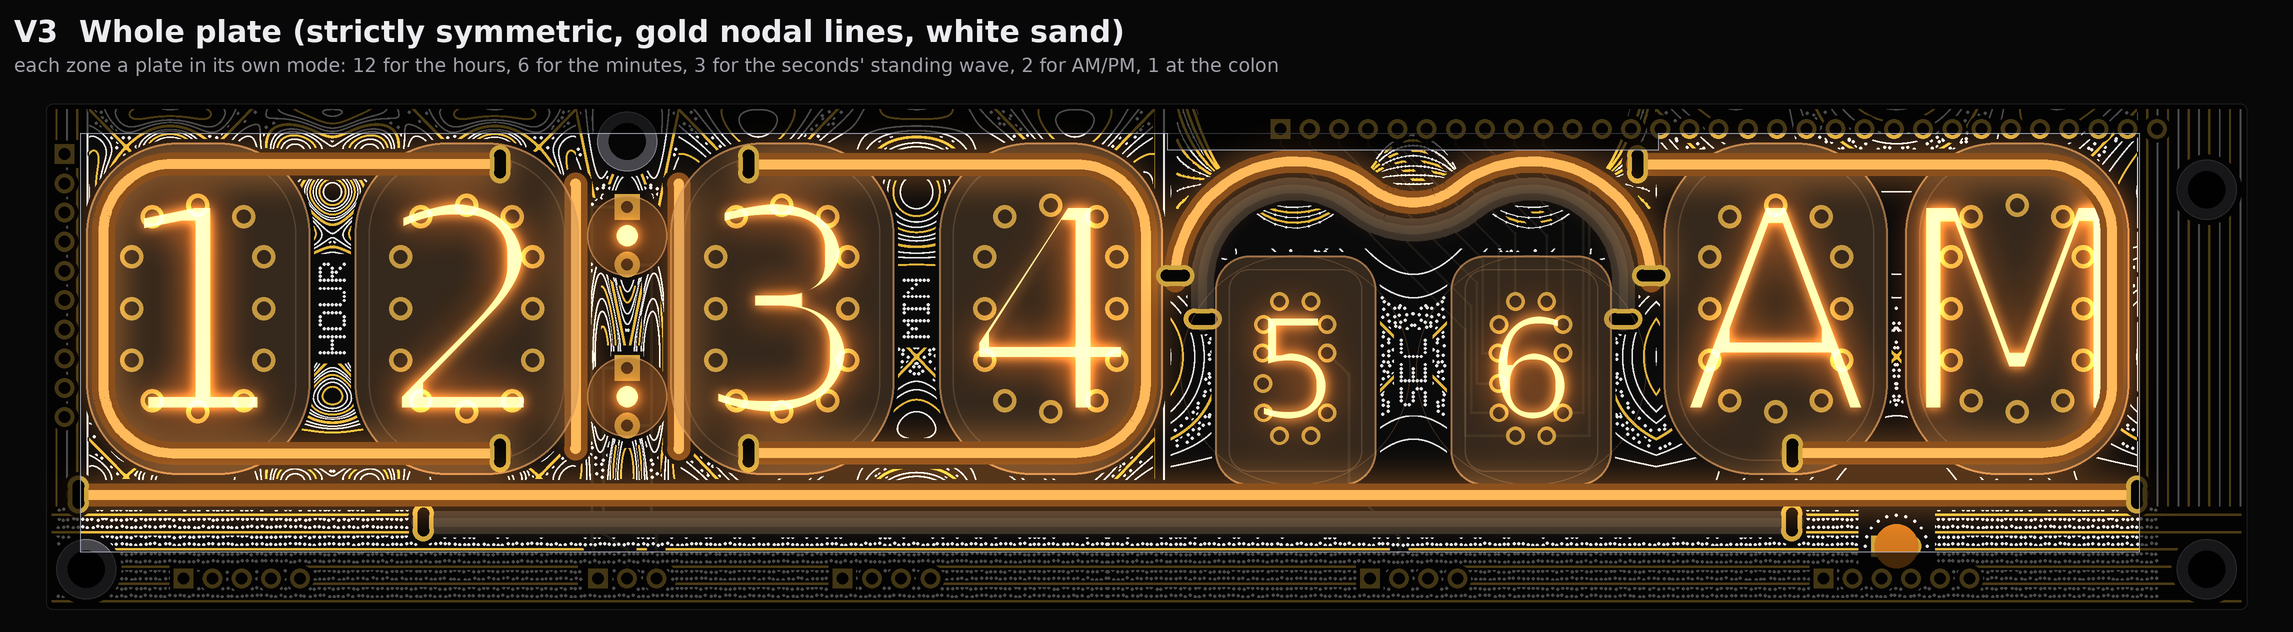
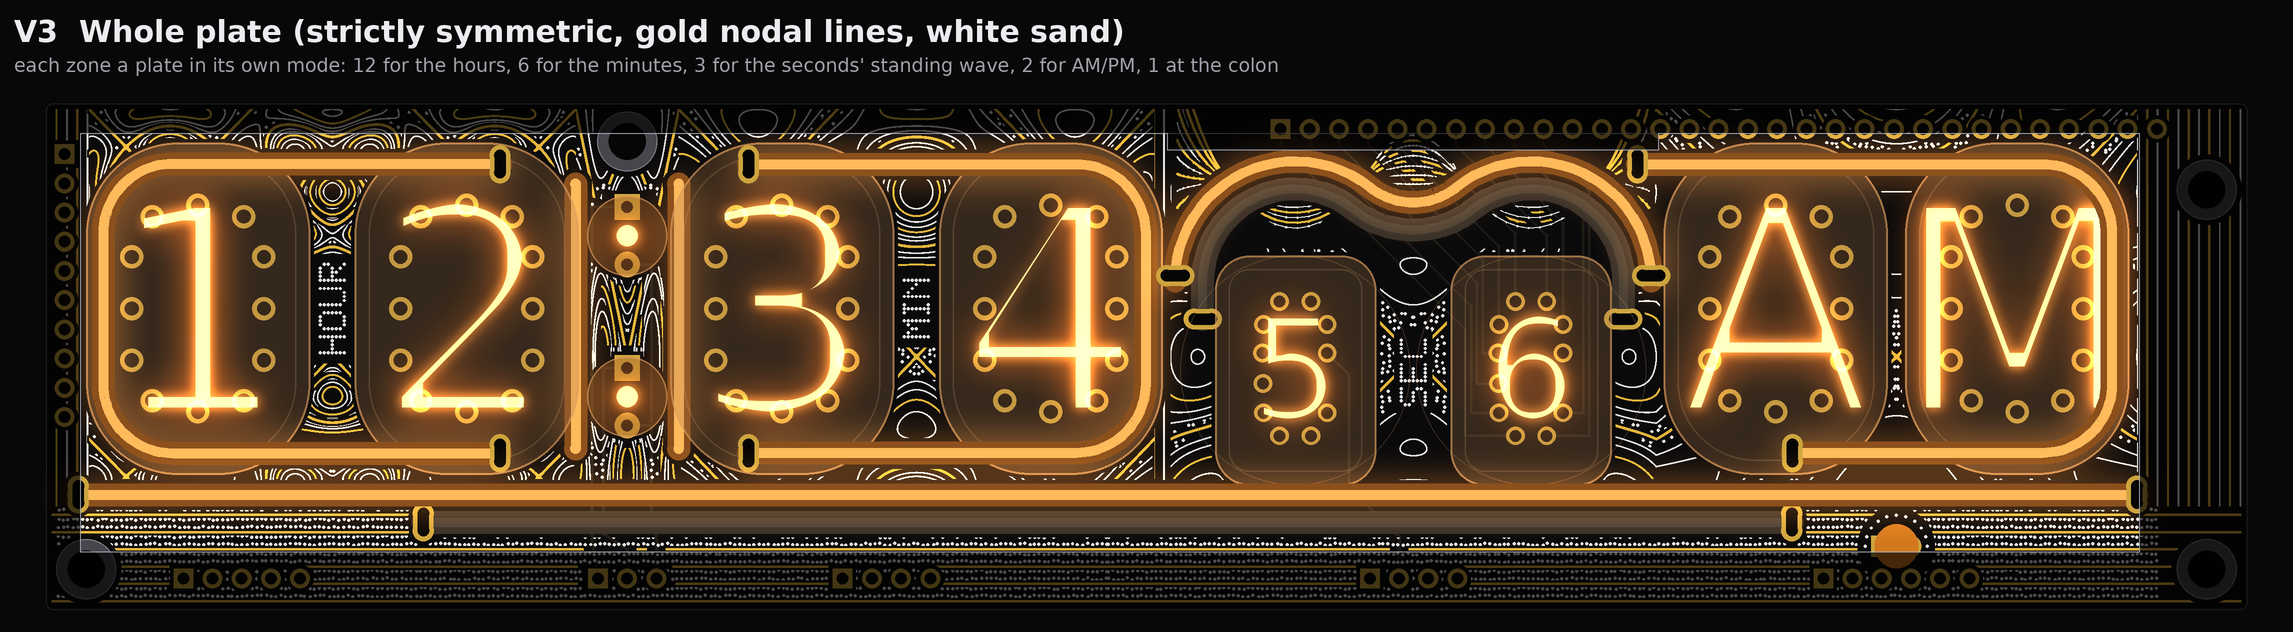
PCB/art: TS06-DISP final write-up, colours, detail and contact sheet; final faces after the full-size look (drawings only)
Claude-Session: https://claude.ai/code/session_01WoV3gyAFgmtuk6W6Dr4bdA

diff --git a/PCB/art/TS06-DISP-final.md b/PCB/art/TS06-DISP-final.md
@@ -1,0 +1,262 @@
+# TS06-DISP final: three wild faces on one light base, an RGB LED per bulb, colour twins (drawings and checks only)
+
+2026-10-14, front round 3, run disp-final. No board, schematic, fab, tool, 3D, firmware or spec file was touched. The faces are drawn
+from `PCB/TS06-DISP/TS06-DISP.kicad_pcb` (pass 2's extract), and the room behind the bulbs from `PCB/TS06-DRV/TS06-DRV.kicad_pcb`;
+both were read, never written. One scale, 11.5 px per mm, tubes lit, the case window drawn (the board outside it, and under the valance
+over the ИН-17 pair, is drawn dimmed). Marks: *measured* is from a board file or the drawn raster; *inferred* is arithmetic; *assumed*
+is my reading, not measured or asked. The scratch scripts stay in the run's scratch folder.
+
+![Contact sheet](TS06-DISP-final/contact-sheet.png)
+
+**In short.** One light base under all three faces: V3b's strokes, the colon borders at x 46.05 and 55.02, and a seconds curve
+of each face's own geometry, all warm. No filament under any bulb. Colour comes two ways. First, one diffused 5 mm RGB LED behind each
+bulb. Second, two colour twins, filaments parallel to the two glyphs that have room: F2 under the long line and S2 inside the
+seconds curve. **RGB LED pick: the addressable 5 mm four-leg type, on one MCU pin (D11).** It needs no PWM chip. Its 240 us write fits
+inside the tube multiplex's 640 us dead time. **Channels: 14 of the one 16-channel chip.** **5 V worst case: 772 mA (77 per
+cent), or 580 mA (58 per cent) with a firmware cap on the LEDs.** **My pick: V1, Fringes.**
+
+## 1. The light base (common to all three faces)
+
+| Line | Filament (sold) | Where | Slots (driven, return) | Drive | Channel | Default |
+|---|---|---|---|---|---|---|
+| H, hours bracket | 95 flex | V3b | (39.48, 30.40), (39.48, 5.27) | BL_A1, F.Cu, **re-routed** round F2's slot (section 4) | 1 | warm |
+| M, minutes bracket | 95 flex | V3b | (61.10, 30.40), (61.10, 5.27) | BL_A3, pass 2 | 2 | warm |
+| P, AM/PM box | 95 flex | V3b, from x 138.4 | (151.86, 30.40), (138.40, 5.27) | BL_A7, pass 2 | 3 | warm |
+| F, the long line | 185 flex | V3b, y 34.0 | (181.81, 34.0), (2.80, 34.0) | BL_A8, re-routed to y 34.0 | 4 | warm |
+| Q1, Q2, colon borders | 26 rigid each | plumb at x 46.05 and 55.02, y 7.0 to 30.0, in the shim (front-merge section 3) | none on DISP | 2 wires through H1's and M10's centre holes | 5 | warm |
+| S, seconds | 60 flex | each face's own curve, R 6 or more, legs in the corridors | per face (section 2) | BL_A6, re-routed | 6 | warm |
+| **F2**, colour twin of F | 125 flex | y 36.4, centred on F's own centre (x 92.305), 0.4 under F | (32.81, 36.40), (151.81, 36.40) | BL_A2 (spare strip pin) | 7 | off |
+| **S2**, colour twin of S | 60 flex | 2.4 inside S (centre to centre), the same bends with R +/- 2.4 | per face (section 2) | BL_A5 (spare strip pin) | 8 | off |
+| **8 RGB LEDs** | 5 mm, diffused, 4 legs | behind DISP on each bulb's axis (section 3a) | none | one data line from D11 | 0 | off |
+
+* **No filament under any bulb.** Front-merge's six colour bars, AML and the two ИН-17 cradle bars are dropped, and so is the
+  cradle. The strokes' inlays and the colon borders still pass under the glass edges, as in V3b and front-merge.
+* **The seconds' corridors moved** (*measured*). Pass 2's legs at x 99.4 and 138.4 leave the twin's legs at 101.8 and 136.0.
+  At those places the ИН-17 cathode tracks (KS7 on B.Cu, KS8 on F.Cu) block a slot from y 6.5 to 30.2 on the left and from 6.7 to
+  32.7 on the right. A scan every 0.2 mm found free slot sites at every height only for x up to 100.8 on the left and x from
+  136.97 on the right. So S's legs stand at x 98.2 and 139.57 and S2's at 100.6 and 137.17. That is the only mirror-symmetric pair
+  that leaves both on free sites. S's left leg keeps 0.59 to M's leg (rule 0.4).
+* **Why F and S get twins and nothing else does:** see section 3b's table.
+
+## 2. The three faces
+
+All three share section 1. A face changes only its seconds curve (S and S2) and its art. White is silkscreen over the mask. Gold is
+mask openings on the BL_K pour. It keeps 0.65 from 185 V F.Cu tracks and 0.85 from 185 V pads (drawn keep-outs; rule 0.6 and 0.8),
+0.35 from other F.Cu copper, and 0.5 from the board edge. Art fills the whole board face up to the edge. Under the case it is drawn
+dimmed. It stays 0.3 from glass, lamps, pads, slots, screws and filament bodies. White breaks 0.16 or more round gold. The names HOUR, MIN
+and SEC (5 x 7 dot type, read bottom to top) stand on their own calm pad in the gap of their pair. A half ring of dots frames the
+m lamp. Nothing crosses them.
+
+### V1 Fringes
+
+![V1](TS06-DISP-final/v1-fringes.png)
+
+* **Creative decisions:** P1-B's double slits filling every zone to the board's edge (S pool), P1-R's fine collapse curve with its
+  side lobes, and a plane wave under the long line. White-led. The seconds is the collapse curve's main lobe.
+* **Symmetric**, exactly: every zone is mirrored on its own axis (hours 24.89, colon 50.535, minutes 75.68, seconds 118.885, AM/PM
+  160.9). The art is cut by a mirrored mask, so a break round copper on one side shows on the other. The band under F is
+  lines parallel to F, each its own mirror image. The strips the mirrored zones leave at x 0.5 to 3.7, 96.3 to 97.8 and 181.8 to
+  190.9 carry plumb hairlines.
+* **Filaments:** the base. S: 60 flex, corners R 8.4, shoulders R 6, peak R 8.4, brim y 10.0, peak top y 5.0 (the body's
+  edge on the valance), slots (98.20, 18.45) and (139.57, 18.45). S2: 60 flex, corners R 6, shoulders R 8.4, peak R 6, slots
+  (100.60, 22.22) driven and (137.17, 22.22) return. S2's brim passes under the raised ИН-17 glass for 0.94 mm. That is allowed:
+  the ИН-17s stand 7.8 mm off the board, so only their lead pads count (pass 2). It keeps 3.01 from them. All warm. F2 and S2 are
+  shown off (blue when lit).
+* **White:** even fronts at a 0.9 mm pitch round each pair's two centres (0.18 wide). The whole collapse curve, side lobes and all,
+  under the lit lobe on its own 0.35 clear ground. Every second plane-wave line under F (0.45 pitch).
+* **Gold:** the odd fronts (0.22) and the other plane-wave lines (0.20), chopped where 185 V F.Cu runs (the colon's COLON_U, the
+  ИН-17s' anodes). About 2.3 m of gold.
+* **Buildable? Needs X:** section 4's base list. The art is silk and mask openings only.
+
+### V2 Ripple tank and pendulum
+
+![V2](TS06-DISP-final/v2-ripple-pendulum.png)
+
+* **Creative decisions:** P1-W's ripple tank over the whole board (S pool), with the screws as sources too, and B's harmonograph
+  pendulum as the seconds glyph (P4-W) with its dying traces (P4-B's persistence). Gold-led.
+* **Organic:** fifteen sources (8 bulbs, 2 colon lamps, the m lamp, 4 screws), each moved up to 1.5 mm, with its own wavelength
+  (3.5 to 4.3 mm) and phase. The seconds swing is tall over S10 and lower over S1. Its legs are at different heights, so it shows
+  no mirror anywhere.
+* **Filaments:** the base. S: 60 flex, a damped swing: crest R 10.2 (top y 5.0), trough R 6 (bottom y 11.5), second crest R 8.4
+  (top y 7.9), slots (98.30, 14.72) and (139.80, 15.83). S2: 60 flex, 2.4 inside it, slots (100.70, 18.49) driven and
+  (137.40, 19.60) return. S's trough comes 0.14 inside the ИН-17 glass outline and S2 passes under it. Both are allowed, because the glass is raised. All warm; the twins off.
+* **White:** the zero lines of the summed wave's quarter-period twin (0.15). In the seconds band, the swing redrawn as it dies away:
+  12 copies of falling amplitude and 11 echoes stepping up and left.
+* **Gold:** the zero lines of the summed wave (0.24), so the gold leads and white and gold alternate about every 1 mm. They meet only
+  at the nodes, where the white breaks. About 1.6 m of gold.
+* **Buildable? Needs X:** section 4's base list.
+
+### V3 Whole plate
+
+![V3](TS06-DISP-final/v3-whole-plate.png)
+
+* **Creative decisions:** P3-W's Chladni plate (A pool), every zone a plate in its own mode, the count the zone's own: 12 for the
+  hours, 6 for the tens of minutes, 3 for the seconds, 2 for AM/PM, 1 at the colon. The seconds is P3's standing wave. Gold nodal
+  lines carry white sand.
+* **Symmetric**, exactly: the plate's field is built from cosines of the distance to the zone's axis, so each zone is its own
+  mirror image by construction. The sand is placed on one half and mirrored. The band under F (gold lines every 1.5 mm, sand
+  either side) is mirrored on F's own centre.
+* **Filaments:** the base. S: 60 flex, mode 3: crests R 10.435 centred over S10 and S1 (top y 5.0), trough R 6 on x 118.885,
+  slots (98.20, 14.98) and (139.57, 14.98). S2: 60 flex, crests R 8.035, trough R 8.4, slots (100.60, 18.75) driven and
+  (137.17, 18.75) return. It keeps 0.03 from the ИН-17 glass outline. All warm; the twins off.
+* **White:** the plate's parallels either side of each nodal line (f = +/-0.3, 0.5, 1.0, 1.25, 1.75; 0.14 wide). Sand grains
+  (0.26 dots) where the plate is still. Above the ИН-17s, the standing wave's other phases (14), all pinched at its two nodes.
+* **Gold:** the nodal lines (f = 0, 0.24 wide) and two more level lines (f = +/-0.75, +/-1.5; 0.17). The odd phases of the
+  seconds' bundle. About 1.4 m of gold.
+* **Buildable? Needs X:** section 4's base list.
+
+## 3. Colour, the two ways the owner allowed
+
+Warm stays the default. Colour is a setting in control option 2 (front-merge section 5): AMBIENT, FIELD = Backlight, SUB down, then
+a long press cycles **Warm / Colour / Mix** for the selected zone. With zone "All" it is one colour for all. **Per bulb is new:**
+the LEDs take any colour each, so zone Hours, Minutes, Seconds or AM/PM sets its two bulbs. The colon stays warm.
+
+![Colour settings on V1](TS06-DISP-final/colours.png)
+
+### 3a. One diffused RGB LED per bulb (8: 4 ИН-12, 2 ИН-15, 2 ИН-17)
+
+| | Addressable 5 mm, 4 legs (DIN, VDD, GND, DOUT; built-in 3-channel driver, single-wire 800 kHz protocol) | Plain 5 mm, 4 legs, common anode |
+|---|---|---|
+| MCU | **one pin, D11** (*inferred*: it is free once the PWM chip takes over the backlight and RN1 and the MPSA42 go, front-merge item 8) | none, I2C |
+| Chips | none | 24 PWM channels. The first chip has 2 spare (section 3c), so **two more** 16-channel I2C chips (TSSOP, which breaks the through-hole rule again). A 24-channel serial LED driver needs 4 pins; none are free. |
+| Wires behind DISP | 3 for the chain (5 V, GND, DATA) | 9 or more (common 5 V + 24 cathodes, or one ribbon per pair) |
+| Timing | 8 x 24 bits x 1.25 us = **240 us with interrupts off**, against the multiplex ISR's 128 us tick (Timer2, prescaler 8). Start the write on the first of the 5 dead ticks (640 us, anode off and decoder blanked): it ends inside the dead time. At most one compare match is lost, which makes that one slot's dead time 128 us longer and dims nothing. **Latch-only:** write only when a colour changes. The LEDs hold their colour between writes. During a fade, write at most once per frame. *Inferred* from `isr.ino` and the MULTIPLEX TIMING note. | no interaction: the chips run their own PWM |
+| 5 V at full white | 3 x 12 mA = 36 mA each, 288 mA for 8 (*assumed*: typical of the 5 mm addressable type; 18 mA kinds exist: 432 mA). Firmware cap R + G + B <= 255: 96 mA | 3 x 20 mA = 60 mA each, 480 mA |
+| Verdict | **pick** | works, but adds 2 chips, 24 resistors and a ribbon to save one pin's timing care |
+
+**Placement, the four places the brief named** (*measured* unless marked):
+
+* **Each ИН-12/ИН-15's 5.0 mm centre hole: yes, from behind.** The LED sits on the bulb's axis behind DISP, dome to the hole. Its
+  light goes up through the pip and the glass base, the classic under-light. **No DISP change for these six.** The inner pins
+  stand at r 5.74 (pad edge r 4.74). The LED's flange is r 2.9, so 1.84 mm of air and a printed wall separate a 5 V LED from the
+  185 V pin tails.
+* **The ИН-17s have no centre hole** (the pip hole was removed; README). A new **3.0 mm NPTH** at each centre clears the nearest
+  pad by 0.74 and the 185 V anode pad by 0.86. No copper is in the hole, so the 0.6/0.8 copper rules do not apply. The nearest track
+  is 1.42 away. A 5.0 hole does not fit: the pads stand at r 3.04 to 3.23. The LED behind it lights the pip, which hangs up to
+  6.4 mm into the 7.8 mm gap (README). *Assumed*: dimmer than the ИН-12s; trim it in firmware.
+* **On DRV, under each axis: no.** DRV's display side is free, but behind every bulb's axis it has the pins of a DIP or a capacitor
+  1.4 to 2.8 mm off the axis: pins of a DIP, a resistor or a capacitor (U2, U6, U7/U8, R26, C17, U10, U15, U16). Four LED pads need about 2.9 (*inferred*).
+* **On DISP's face with tracks, or in front-merge's shim: no.** Inside the pin ring there is 1.4 mm. The shim is 2.4 thick and the
+  LED 5.
+* **How it is held and wired:** one printed carrier (PETG or ASA) clipped to DISP's back, with 8 pockets on the bulb axes (x 13.21,
+  36.57, 63.99, 87.37, 108.635, 129.135, 150.4, 171.4; y 17.834, the ИН-17s 23.209). It has clearance holes for the tube pins'
+  tails. The legs bend 90 degrees into grooves on its back, and the chain runs left to right (H10 first). **Depth:** the gap
+  between DISP and DRV is 11.0 (pass 2, *inferred*). The LED is 8.6 with its flange (*assumed*, typical) and the bent legs add
+  0.5, so 9.1. DRV's lead tails stick up to 2.0 into the gap, so **cut them to 1.0 under the 8 spots**. That leaves 0.9.
+  Measure the gap before the carrier is drawn.
+* **185 V:** nothing bare at 5 V comes within 1.8 of a 185 V pin. The legs and joints sit on the axis, inside the carrier.
+* **Light through the glass:** the diffused dome on the axis fills the whole envelope from below and leaves the digits' glow on
+  top. This is P8's "one LED on one side looks lopsided" answered by a centred, diffused source.
+
+![One bulb's LED and the twins by the hours bracket](TS06-DISP-final/detail-2x.png)
+
+### 3b. Colour filaments parallel to the big glyphs (one filament per colour)
+
+Rules: body 2.0, 0.4 to pin pads, 0.4 line to line, slots on free copper (pass 2's rules). Offsets are 2.4 centre to centre.
+
+| Glyph | One parallel line? | Two? | Why (*measured* on the drawn lines) |
+|---|---|---|---|
+| H and M brackets | no | no | Outside the top run (y 2.87) the brow hides y < 2.6, so 37 % of the body is hidden. Inside (y 7.67) it overlaps the pin pads by 0.83. Under the bottom run (y 32.80) it overlaps F by 0.8. Outside H's leg (x 2.57) the case trench hides 72 %. |
+| P box | no | no | The same as the brackets. Outside its right leg (x 182.04) it is behind the trench (x 182.035). |
+| Colon bars Q1, Q2 | no | no | Outward (x 43.65 / 57.42) it overlaps H1's/M10's pin pads. Inward (x 48.45 / 52.62) it comes 0.02 off the colon lamps' pads (*inferred* from front-merge's 2.38). |
+| F, the long line | **yes, below** (F2, y 36.4) | no | The band from F's body to the sill is 4.0; two bodies need 4.8. F2 stops 6.4 short of the m lamp's flange. |
+| S, the seconds curve | **yes, inside** (S2) | no | A second twin at 4.8 needs legs at x 103.0 / 134.77, where KS7/KS8 block slots from y 6.3 to 30.3. Its brim would sit under the ИН-17 glass. |
+
+* **So two colour lines, one colour each.** **Ship blue on both ("ice")**, front-merge's pick: the strongest contrast to the warm
+  lines. Any sold flex colour fits: yellow, red, green, blue, pink, white. With one filament per colour, F2 and S2 may also differ,
+  for example F2 red and S2 blue. That is a build option, not a setting.
+* **Per zone:** F2 is the frame zone's colour and S2 the seconds'. Hours, minutes and AM/PM take their colour from the LEDs.
+
+### 3c. Channels and 5 V
+
+| Use | Channels (16-channel I2C PWM chip on DRV, front-merge item 8) |
+|---|---|
+| DISP warm: H, colon (Q1 + Q2), M, S, P, F | 6 |
+| DISP colour twins: F2, S2 | 2 |
+| Fascia: the new connector's channels (front-merge item 11; the fascia runs' limit) | 6 |
+| RGB LEDs | 0 (one data pin) |
+| **Total** | **14 of 16, 2 spare** (11 if the fascia uses front-merge's 3) |
+
+**5 V worst case** (Mix at 100 per cent, 20 mA a filament, front-merge's recommendation; U14 R-78E5.0-1.0, 1.0 A):
+
+| Load | mA |
+|---|---|
+| 5 V side without HL1-8 (pass 1, *measured* stage 8) | 104 |
+| DISP warm: 7 filaments (H, M, S, P, F, Q1, Q2) | 140 |
+| DISP colour: F2, S2 | 40 |
+| Fascia: 10 filaments (front-merge section 6) | 200 |
+| 8 RGB LEDs at full white (12 mA a die, *assumed*) | 288 |
+| **Total** | **772 (77 %)**; **580 (58 %)** with the firmware cap (LEDs 96); 916 (92 %) with 18 mA dies and no cap |
+
+The cap (R + G + B of an LED at most one die at full) costs nothing and keeps white at a third. **I recommend it.**
+
+## 4. The change list for the board-change run
+
+*measured* = from the board file or the router on it; *inferred* = arithmetic or routing not yet checked by DRC; *assumed* = not
+measured. Coordinates in mm, DISP's frame (y down from the top edge).
+
+**The light base (all faces):**
+
+| # | Board | Change | Check | Mark |
+|---|---|---|---|---|
+| 1 | DISP | Keep V3b: H, M, P slots and tracks (pass 2), F at y 34.0, HL9 at (160.9, 38.5), ANODE_H1 moved (pass 2), BL_A4 deleted (its strip pin spare), no growth | pass 2 | *measured* |
+| 2 | DISP | F's drive (BL_A8, B.Cu) to V3b's slot (181.81, 34.0): (167.25, 41.3), (174.5, 41.3), (181.8, 34.0); 17.6 mm | router: 0.25 / 0.6 / 0.8 kept | *measured* (router) |
+| 3 | DISP | **F2's slots** (32.81, 36.40) driven and (151.81, 36.40) return on the pour, heading 0 / 180; **BL_A2** (B.Cu): XP21.5 (22.1, 41.3), (28.2, 41.0), (32.8, 36.4); 12.7 mm | slots 3.20 to ANODE_H1's run (185 V), 2.91 to XP25.1; body 6.43 to HL9's flange | *measured* |
+| 4 | DISP | **BL_A1 (H, F.Cu) re-routed** round F2's slot: via (14.48, 35.5), (31.1, 35.5), (32.2, 34.4), (35.6, 34.3), (39.48, 30.40); 27.1 mm (pass 2's ran straight on y 35.5 into F2's slot) | router | *measured* |
+| 5 | DISP | **S's slots** move to the new corridors (per face, section 2); **BL_A6** re-routed from XP24 (122.73, 41.3) along pass 2's path to (135.1, 31.5), then up the right corridor to the slot: V1 31.4 mm, V2 34.2, V3 34.9 | router; slots 0.72 or more to CAT_B_AMP | *measured* |
+| 6 | DISP | **S2's slots** (per face, section 2); **BL_A5** (B.Cu): XP24 (115.11, 41.3), (113.4, 40.1), (102.4, 29.1), up the left corridor to the slot: V1 25.4 mm, V2 29.1, V3 28.9 | router; slots 0.46 or more to KS7 | *measured* |
+| 7 | DISP | **Two 3.0 mm NPTH** at the ИН-17 centres (108.635, 23.209) and (129.135, 23.209), for their LEDs' light | 0.74 to a pad, 0.86 to the anode pad, 1.42 to a track | *measured* |
+| 8 | DISP | No slot, track or hole for Q1, Q2 or any bulb's light (front-merge items 3 and 6 are dropped); the ИН-12/ИН-15 LEDs use the existing 5.0 NPTH | | *measured* |
+| 9 | Shim | Front-merge item 5 without the bar channels: channels for V3b's inlays and Q1, Q2 only; Q's 2 wires in grooves to H1's and M10's centre holes, past the LED's dome (a 0.6 groove in the carrier) | | *inferred* |
+| 10 | LED carrier | New printed part behind DISP (section 3a): 8 pockets, pin-tail clearances, the chain's 3 wires in grooves | | *inferred* |
+| 11 | Harness | 5 wires (LED 5 V, GND, DATA; Q drive, Q return), replacing front-merge's 12-pin harness | | *inferred* |
+| 12 | DRV | The 16-channel I2C PWM chip (front-merge item 8) with 14 N-FETs (8 DISP channels, 6 fascia) and 19 resistors of 120 R (9 DISP filaments, Q1 and Q2 one each; 10 fascia), in place of front-merge's 13 FETs and 26 resistors; 330 R in DATA at D11; 100 uF at the chain's 5 V; RN1 and the MPSA42's PWM role go | room not checked | *inferred* |
+| 13 | DRV | Cut the lead tails to 1.0 under the 8 LED spots (DRV x = 191.4 - x, y = y + 26.0: (178.19, 43.83), (154.83, 43.83), (127.41, 43.83), (104.03, 43.83), (82.77, 49.21), (62.27, 49.21), (41.00, 43.83), (20.00, 43.83)) | | *measured* (spots), *assumed* (need) |
+| 14 | Strip pins | BL_A2 = F2, BL_A5 = S2 (both were spare), BL_A4 stays spare; XP12.11 to 13 and XP25.3 unchanged | | *measured* |
+| 15 | Firmware (later) | D11 released from Timer2's OC2A; LED writes latch-only, in the dead time; the Colour setting per zone, per bulb | | *inferred* |
+| 16 | Case | 0.4 deeper for the 2.4 shim (front-merge item 12); no window change | | *inferred* |
+
+**Each face's art deltas** (silk and mask only; no copper beyond the base):
+
+| Face | Silk (white) | Mask openings (gold on the BL_K pour) | S and S2 slots | Checks |
+|---|---|---|---|---|
+| V1 | fronts 0.18, fine curve 0.16, plane lines 0.16, names, half ring; about 2.2 m | fronts 0.22, plane lines 0.20; about 2.3 m | S (98.20, 18.45) / (139.57, 18.45); S2 (100.60, 22.22) / (137.17, 22.22) | section 5 |
+| V2 | zero lines 0.15, traces 0.15; about 1.1 m | zero lines 0.24, traces 0.20; about 1.6 m | S (98.30, 14.72) / (139.80, 15.83); S2 (100.70, 18.49) / (137.40, 19.60) | section 5 |
+| V3 | parallels 0.14, sand dots 0.26, bundle 0.15; about 2.2 m | nodal lines 0.24 and 0.17, bundle 0.20; about 1.4 m | S (98.20, 14.98) / (139.57, 14.98); S2 (100.60, 18.75) / (137.17, 18.75) | section 5 |
+
+## 5. The checks
+
+*Measured* on the drawn rasters (0.043 mm pixels) against DISP's board file. The lines were checked with pass 2's body and slot
+checks and router.
+
+| Check | Rule | V1 | V2 | V3 |
+|---|---|---|---|---|
+| Gold to 185 V F.Cu tracks | 0.6 | 0.63 | 0.65 | 0.67 |
+| Gold to 185 V pads | 0.8 | 0.84 | 0.84 | 0.84 |
+| Art to the glass and the colon lamps | 0.3 | 0.31 | 0.31 | 0.31 |
+| Art to the names and the m lamp's ring | own ground | 0.52 | 0.52 | 0.52 |
+| White to gold | 0.15 break | 0.22 | 0.22 | 0.22 |
+| Largest empty spot in the window (radius of the biggest disc with no line) | "no empty space" | 1.49 (top left of the seconds, where the mirror of P's slot cuts) | 1.10 | 1.48 (under S2's left crest) |
+| S body to an ИН-12 pin pad, to another pad | 0.4, 0.3 | 3.11, 1.02 | 3.09, 0.96 | 3.24, 0.97 |
+| S2 body to a pin pad, to a pad | 0.4, 0.3 | 5.49, 3.01 | 5.26, 2.97 | 5.49, 3.37 |
+| S and S2 slots to other copper | 0.25 | 0.95, 0.55 | 0.72, 0.46 | 0.96, 0.55 |
+| F2 body to HL9's flange, F2 slots to copper | 0.3, 0.25 | 6.43, 2.91 | same | same |
+
+## 6. My pick
+
+**V1, Fringes.** It is the owner's top S face grown to fill the whole board. Every pair is a double slit, mirrored exactly on its own
+axis, under one collapse curve, and the white leads so the warm lines and the blue twins read cleanly over it. V2 is the
+organic alternative and the fullest of the three. If the owner wants a face with no mirror, take V2. Nothing else changes, because
+the base, the twins and the LEDs are the same.
+
+## 7. Left open, assumed
+
+* **Not buildable as drawn: nothing.** Each face needs section 4's base list.
+* To measure: the gap between DISP and DRV (11.0 *inferred*); the LED's height with its flange (8.6 *assumed*); the ИН-12 pip
+  (front-merge question 3). If the pip is short, the LED's dome can enter the 5.0 hole and the depth worry goes. If the gap is
+  under 10, use a short-body 5 mm LED.
+* The ИН-17 LEDs light through a 3.0 hole and the pip: the bench decides how bright.
+* The colour of F2 and S2 against the blue LEDs: the bench. Sold "blue" flex and a blue LED die may differ in tint.
+* Line widths (white 0.14 to 0.18, gold 0.17 to 0.24), pitches and V2's seed are choices, not needs. The 0.14 silk is under the
+  0.15 used before: ask the fab or widen to 0.15.
+* Not checked: a real DRC (no board file edited), the pour's fill after the new tracks, thermal reliefs on the new slots.
